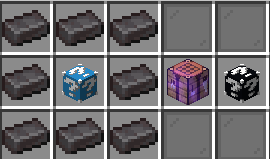
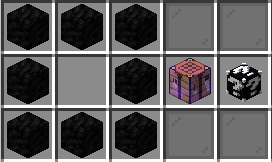
update lb

diff --git a/lucky_block.html b/lucky_block.html
@@ -10,24 +10,24 @@
         <h2>Lucky Blocks</h2>
         <h3>Il y a 5 types de lucky block différents:</h3>
         <ol>
-            <li>Les gray, craftables avec de la STONE</li>
-            <li>Les light_gray, craftables avec de l'IRON</li>
-            <li>Les yellow, craftables avec du GOLD</li>
-            <li>Les light_blue, craftables avec des DIAMOND</li>
-            <li>Les black, craftables avec de la NETHERITE</li>
+            <li>Noirs: craftable avec du Charbon</li>
+            <li>Gris Clair: craftable avec du Fer</li>
+            <li>Jaunes: craftable avec de l'Or</li>
+            <li>Bleu Clair: craftable avec du Diamand</li>
+            <li>Gris: craftables avec de la Netherite</li>
         </ol>
-        <p>Chaque lucky block est craftable à partir du précédent. Pour crafter un black, il faudra donc crafter les 4 précédents. Bien évidement les drops sont de mieux en mieux.</p>
+        <p>Chaque lucky block est craftable à partir du précédent. Pour crafter un gris, il faudra donc crafter les 4 précédents. Bien évidemment les drops sont de mieux en mieux.</p>
         <h3>Les crafts</h3>
-        <h4>GRAY</h4>
-        <img src="Images/gray.png" class="img_lucky">
+        <h4>BLACK</h4>
+        <img src="Images/black.png" class="img_lucky">
         <h4>LIGHT_GRAY</h4>
         <img src="Images/light_gray.png" class="img_lucky">
         <h4>YELLOW</h4>
         <img src="Images/yellow.png" class="img_lucky">
         <h4>LIGHT_BLUE</h4>
         <img src="Images/light_blue.png" class="img_lucky">
-        <h4>BLACK</h4>
-        <img src="Images/black.png" class="img_lucky">
+        <h4>GRAY</h4>
+        <img src="Images/gray.png" class="img_lucky">
         <br><button onclick="window.location.href = 'index.html';" class="retour">&#8592;Retour</button>
     </body>
 </html>
